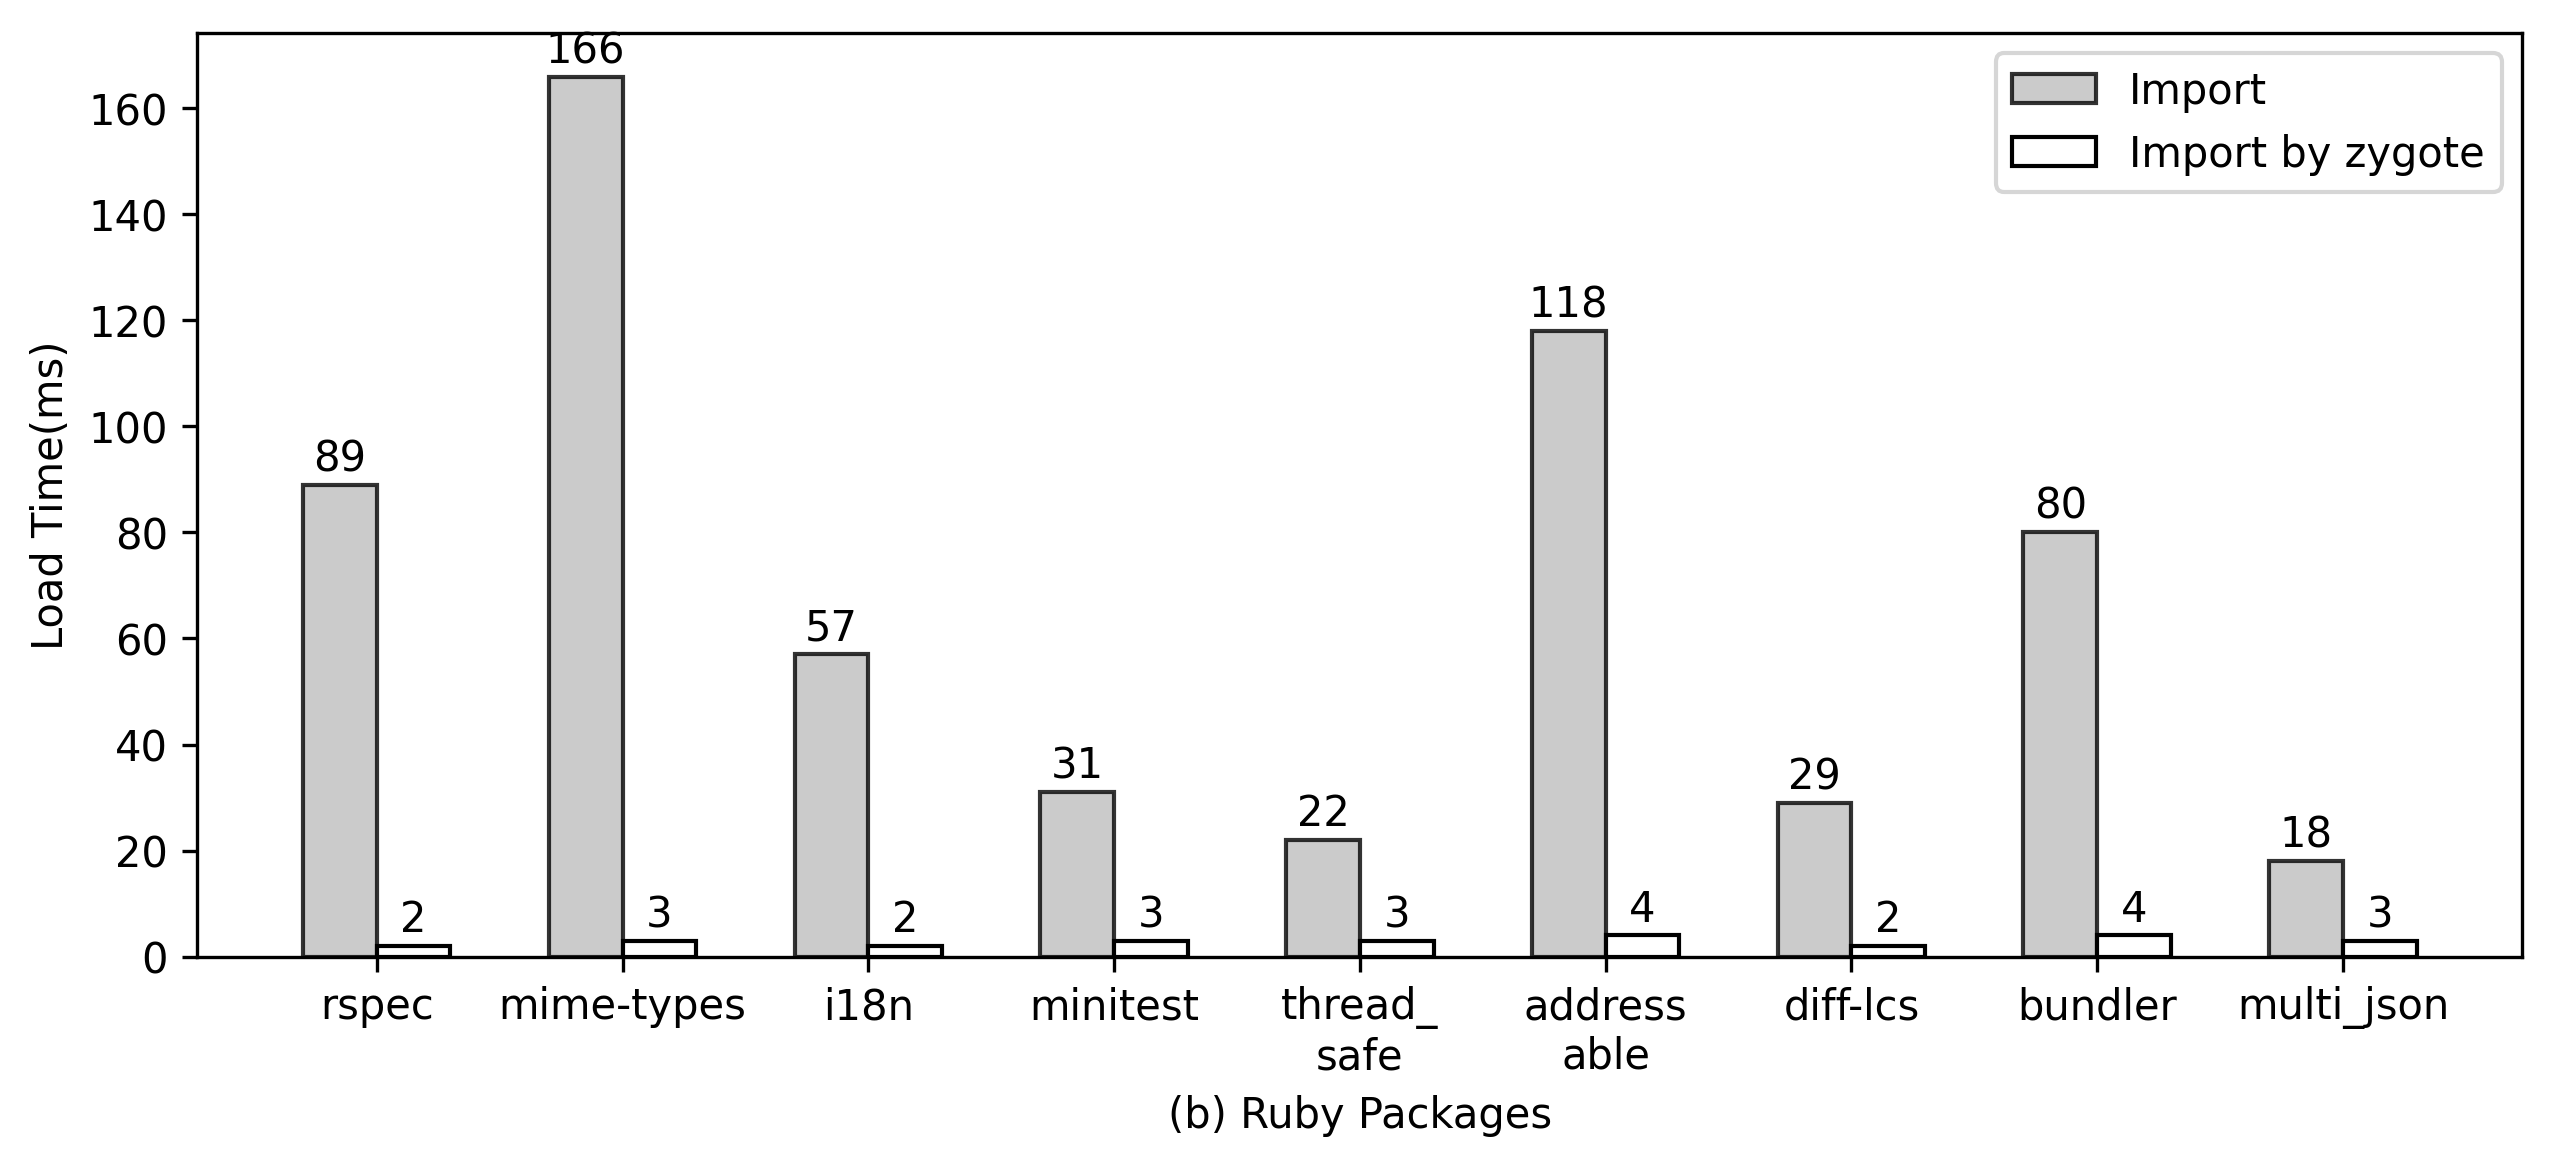
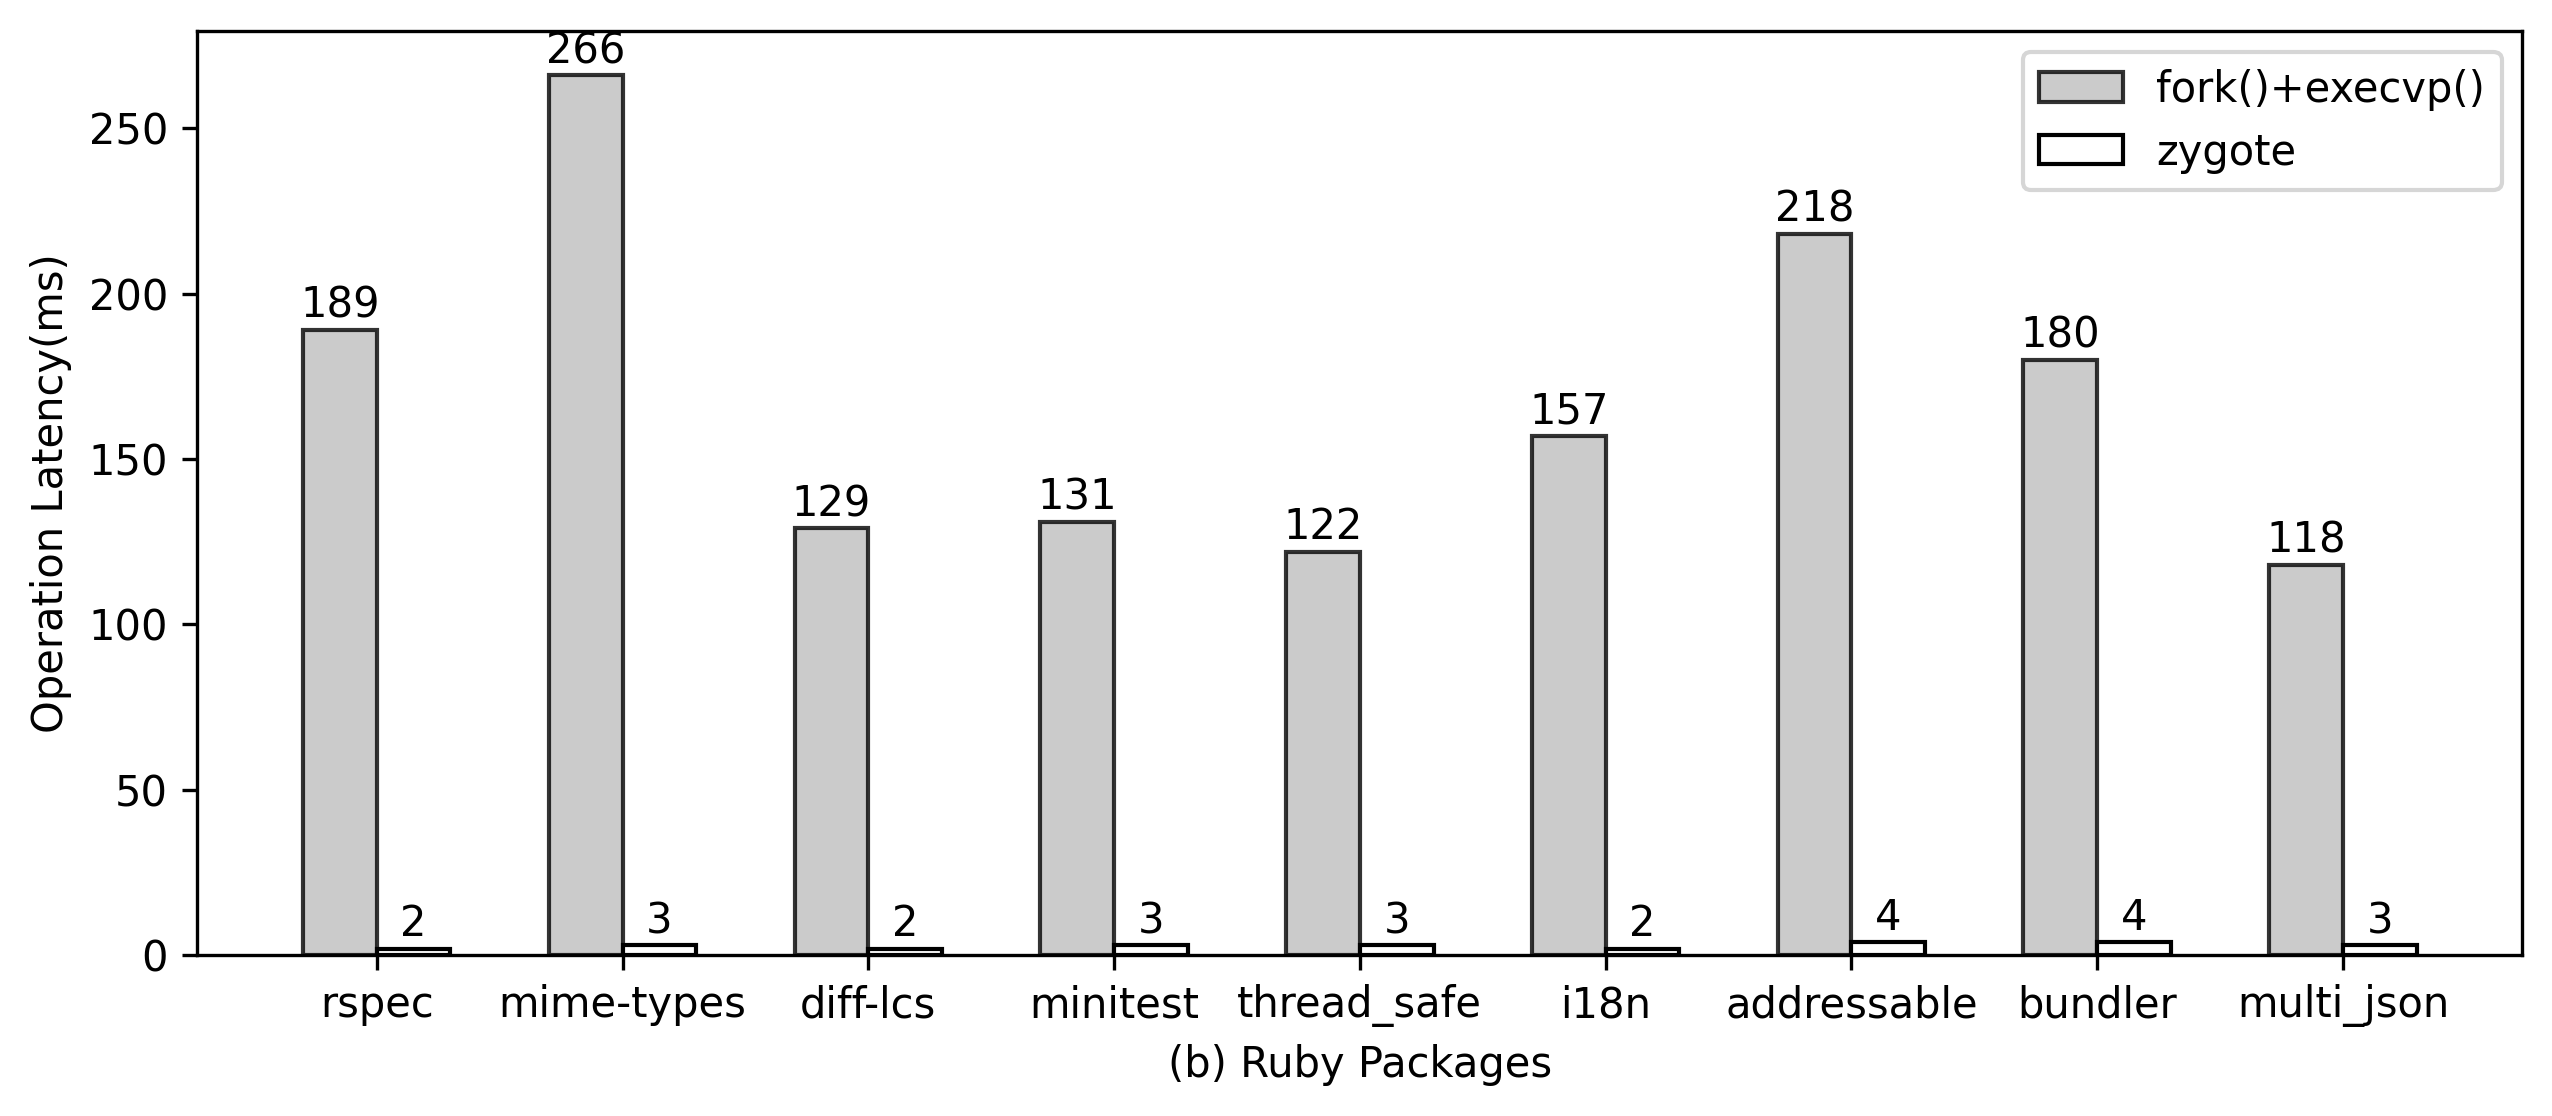
ok

diff --git a/code/capture-6/fre-engine/package_load/3.py b/code/capture-6/fre-engine/package_load/3.py
@@ -1,0 +1,64 @@
+import importlib
+import time
+
+''' 测试包加载的时间
+执行流程
+
+1. 使用 docker python:3.7 环境
+docker run -it -v $PWD:/root python:3.7 bash
+
+2. 安装依赖包
+pip3 install -i http://pypi.douban.com/simple --trusted-host pypi.douban.com \
+    django flask numpy pandas matplotlib setuptools requests sqlalchemy seaborn scipy
+
+3. 执行测试脚本
+python /root/package_load_time.py
+'''
+#
+# t1 = int(round(time.time() * 1e9 / 1e6))
+# importlib.import_module("numpy")
+# t2 = int(round(time.time() * 1e9 / 1e6))
+# print("numpy" + ": ", t2 - t1, "ms")
+
+# 先导入scipy
+t1 = int(round(time.time() * 1e9 / 1e6))
+importlib.import_module("scipy")
+t2 = int(round(time.time() * 1e9 / 1e6))
+print("scipy" + ": ", t2 - t1, "ms")
+
+# 再导入numpy
+t1 = int(round(time.time() * 1e9 / 1e6))
+importlib.import_module("numpy")
+t2 = int(round(time.time() * 1e9 / 1e6))
+print("numpy" + ": ", t2 - t1, "ms")
+
+# # scipy -> numpy
+#
+# pid = os.fork()
+# if pid == 0:
+#     # 直接导入 numpy
+#     t1 = int(round(time.time() * 1e9 / 1e6))
+#     importlib.import_module("numpy")
+#     t2 = int(round(time.time() * 1e9 / 1e6))
+#     print("numpy" + ": ", t2 - t1, "ms")
+#     sys.exit(0)
+# else:
+#     os.waitpid(pid, 0)
+#
+# pid = os.fork()
+# if pid == 0:
+#     # 先导入scipy
+#     t1 = int(round(time.time() * 1e9 / 1e6))
+#     importlib.import_module("scipy")
+#     t2 = int(round(time.time() * 1e9 / 1e6))
+#     print("scipy" + ": ", t2 - t1, "ms")
+#
+#     # 再导入numpy
+#     t1 = int(round(time.time() * 1e9 / 1e6))
+#     importlib.import_module("numpy")
+#     t2 = int(round(time.time() * 1e9 / 1e6))
+#     print("numpy" + ": ", t2 - t1, "ms")
+#
+#     sys.exit(0)
+# else:
+#     os.waitpid(pid, 0)

diff --git a/code/capture-6/fre-engine/package_load/2.py b/code/capture-6/fre-engine/package_load/2.py
@@ -1,0 +1,67 @@
+import importlib
+import os
+import sys
+import time
+
+''' 测试包加载的时间
+执行流程
+
+1. 使用 docker python:3.7 环境
+docker run -it -v $PWD:/root python:3.7 bash
+
+2. 安装依赖包
+pip3 install -i http://pypi.douban.com/simple --trusted-host pypi.douban.com \
+    django flask numpy pandas matplotlib setuptools requests sqlalchemy seaborn scipy
+
+3. 执行测试脚本
+python /root/package_load_time.py
+'''
+
+packages = ["django", "flask", "numpy", "pandas", "matplotlib", "setuptools", "requests", "sqlalchemy",
+            "scipy", "seaborn"]
+
+for i in range(0, len(packages)):
+    pid = os.fork()
+    if pid == 0:
+        t1 = int(round(time.time() * 1e9 / 1e6))
+        importlib.import_module(packages[i])
+        t2 = int(round(time.time() * 1e9 / 1e6))
+        print(packages[i] + ": ", t2 - t1, "ms")
+        sys.exit(0)
+    else:
+        os.waitpid(pid, 0)
+
+'''
+django:  24 ms
+flask:  189 ms
+numpy:  156 ms
+pandas:  427 ms
+matplotlib:  222 ms
+setuptools:  223 ms
+requests:  143 ms
+sqlalchemy:  142 ms
+scipy:  186 ms
+seaborn:  1086 ms
+
+django:  26 ms
+flask:  198 ms
+numpy:  168 ms
+pandas:  521 ms
+matplotlib:  302 ms
+setuptools:  213 ms
+requests:  162 ms
+sqlalchemy:  163 ms
+scipy:  205 ms
+seaborn:  1211 ms
+
+django:  27 ms
+flask:  192 ms
+numpy:  157 ms
+pandas:  464 ms
+matplotlib:  226 ms
+setuptools:  209 ms
+requests:  142 ms
+sqlalchemy:  150 ms
+scipy:  181 ms
+seaborn:  1122 ms
+'''

diff --git a/result/4.1/load_ruby.py b/result/4.1/load_ruby.py
@@ -26,18 +26,20 @@ multi_json : 3
 
 plt.figure(figsize=(10, 4))
 
-label_list = ['rspec', 'mime-types', 'i18n', 'minitest',
-              'thread_\nsafe', 'address\nable', 'diff-lcs', 'bundler', 'multi_json']  # 横坐标刻度显示值
-list_docker = [89, 166, 57, 31, 22, 118, 29, 80, 18]  # 纵坐标值1
-list_fre = [2, 3, 2, 3, 3, 4, 2, 4, 3]  # 纵坐标值2
+label_list = ['rspec', 'mime-types', 'diff-lcs', 'minitest', 'thread_safe',
+              'i18n', 'addressable', 'bundler', 'multi_json']  # 横坐标刻度显示值
+list_docker = [189, 266, 129, 131, 122,
+               157, 218, 180, 118]  # 纵坐标值1
+list_fre = [2, 3, 2, 3, 3,
+            2, 4, 4, 3]  # 纵坐标值2
 x_label = "(b) Ruby Packages"
-y_label = "Load Time(ms)"
+y_label = "Operation Latency(ms)"
 output = "output/ruby.png"
 fz = 10
 x = range(len(list_docker))
 
-rects1 = plt.bar(x=x, height=list_docker, width=0.3, alpha=0.8, color='#BEBEBE', edgecolor='k', label="Import")
-rects2 = plt.bar(x=[i + 0.3 for i in x], height=list_fre, width=0.3, color='w', edgecolor='k', label="Import by zygote")
+rects1 = plt.bar(x=x, height=list_docker, width=0.3, alpha=0.8, color='#BEBEBE', edgecolor='k', label="fork()+execvp()")
+rects2 = plt.bar(x=[i + 0.3 for i in x], height=list_fre, width=0.3, color='w', edgecolor='k', label="zygote")
 
 # 编辑文本
 for rect in rects1:

diff --git a/result/lh/3.2.py b/result/lh/3.2.py
@@ -1,0 +1,31 @@
+import matplotlib.pyplot as plt
+
+fz = 10
+
+x1 = [0.000, 0.004, 0.0045, 0.005, 0.0055, 0.006, 0.0068, 0.0085,
+      0.009, 0.011, 0.0135, 0.0148, 0.0155, 0.016, 0.0185, 0.020]
+y1 = [0.12, 0.24, 0.42, 0.46, 0.456, 0.454, 0.454, 0.454,
+      0.48, 0.56, 0.58, 0.65, 0.65, 0.66, 0.71, 0.71]
+
+x2 = [0.002, 0.0055, 0.0065, 0.007, 0.0078, 0.008, 0.011, 0.012,
+      0.014, 0.015, 0.0155, 0.0165, 0.017, 0.0175, 0.019, 0.0195]
+y2 = [0.14, 0.33, 0.59, 0.59, 0.59, 0.64, 0.68, 0.68,
+      0.81, 0.81, 0.81, 0.81, 0.81, 0.81, 0.81, 0.81]
+# x2 = [0.001, 0.002, 0.003, 0.004, 0.005, 0.0058, 0.0065, 0.0088, 0.010, 0.0125, 0.014, 0.0155, 0.017, 0.020]
+# y2 = [0.09, 0.16, 0.198, 0.27, 0.32, 0.33, 0.4, 0.41, 0.43, 0.45, 0.56, 0.58, 0.64, 0.64]
+
+plt.figure(figsize=(5.5, 3))
+
+plt.plot(x1, y1, '-', color='k', linewidth=0.9, marker='o', markersize=4)
+plt.plot(x2, y2, '-.', color='k', linewidth=0.9, marker='*', markersize=4)
+
+plt.xlabel('False Positive Rate', fontsize=fz)
+plt.ylabel('True Positive Rate', fontsize=fz)
+# plt.legend(loc='best', fontsize=fz)
+plt.tick_params(labelsize=fz)
+
+plt.xticks([0.000, 0.004, 0.008, 0.012, 0.016, 0.020])
+plt.yticks([0, 0.1, 0.2, 0.3, 0.4, 0.5, 0.6, 0.7, 0.8])
+
+plt.savefig("output/3.2.png", dpi=300, bbox_inches='tight')
+plt.close()

diff --git a/result/4.1/load_python.py b/result/4.1/load_python.py
@@ -28,16 +28,16 @@ plt.figure(figsize=(10, 4))
 
 label_list = ['django', 'flask', 'numpy', 'pandas', 'matplotlib', 'scipy', 'setuptools', 'requests',
               'sqlalchemy']  # 横坐标刻度显示值
-list_docker = [19, 209, 120, 279, 56, 24, 124, 75, 102]  # 纵坐标值1
+list_docker = [49, 239, 150, 309, 86, 54, 154, 105, 132]  # 纵坐标值1
 list_fre = [3, 4, 4, 4, 5, 4, 4, 4, 5]  # 纵坐标值2
 x_label = "(a) Python Packages"
-y_label = "Load Time(ms)"
+y_label = "Operation Latency(ms)"
 output = "output/python.png"
 fz = 10
 x = range(len(list_docker))
 
-rects1 = plt.bar(x=x, height=list_docker, width=0.3, alpha=0.8, color='#BEBEBE', edgecolor='k', label="Import")
-rects2 = plt.bar(x=[i + 0.3 for i in x], height=list_fre, width=0.3, color='w', edgecolor='k', label="Import by zygote")
+rects1 = plt.bar(x=x, height=list_docker, width=0.3, alpha=0.8, color='#BEBEBE', edgecolor='k', label="fork()+execvp()")
+rects2 = plt.bar(x=[i + 0.3 for i in x], height=list_fre, width=0.3, color='w', edgecolor='k', label="zygote")
 
 # 编辑文本
 for rect in rects1:

diff --git a/result/lh/3.1.py b/result/lh/3.1.py
@@ -1,0 +1,25 @@
+import matplotlib.pyplot as plt
+
+fz = 10
+
+x1 = [0.0005, 0.001, 0.0018, 0.002, 0.0027, 0.0031, 0.004, 0.0053, 0.0086, 0.015, 0.017]
+y1 = [0.06, 0.25, 0.28, 0.32, 0.46, 0.47, 0.52, 0.57, 0.59, 0.68, 0.73]
+
+x2 = [0.001, 0.002, 0.003, 0.004, 0.005, 0.0058, 0.0065, 0.0088, 0.010, 0.0125, 0.014, 0.0155, 0.017, 0.020]
+y2 = [0.09, 0.16, 0.198, 0.27, 0.32, 0.33, 0.4, 0.41, 0.43, 0.45, 0.56, 0.58, 0.64, 0.64]
+
+plt.figure(figsize=(5.5, 4))
+
+plt.plot(x1, y1, '-', color='k', linewidth=0.9, marker='o', markersize=4)
+plt.plot(x2, y2, '-.', color='k', linewidth=0.9, marker='*', markersize=4)
+
+plt.xlabel('False Positive Rate', fontsize=fz)
+plt.ylabel('True Positive Rate', fontsize=fz)
+# plt.legend(loc='best', fontsize=fz)
+plt.tick_params(labelsize=fz)
+
+plt.xticks([0.000, 0.004, 0.008, 0.012, 0.016, 0.020])
+plt.yticks([0, 0.1, 0.2, 0.3, 0.4, 0.5, 0.6, 0.7, 0.8])
+
+plt.savefig("output/3.png", dpi=300, bbox_inches='tight')
+plt.close()

diff --git a/result/6.3-mem/mem_1.py b/result/6.3-mem/mem_1.py
@@ -1,13 +1,15 @@
 import matplotlib.pyplot as plt
 
-label_list = ['Nodejs8', 'Python2.7', 'Python3', 'Java8', 'PHP5.6']  # 横坐标刻度显示值
-list_docker = [161, 124, 132, 307, 127]  # 纵坐标值1
-list_fre = [155, 109, 117, 282, 120]  # 纵坐标值2
+label_list = ['Nodejs12', 'Python3.7', 'Ruby3', 'Java8', 'PHP8']  # 横坐标刻度显示值
+list_docker = [161, 124, 152, 307, 127]  # 纵坐标值1
+list_fre = [158, 119, 147, 301, 125]  # 纵坐标值2
 x_label = "WebApp"
 y_label = "Memory usage(MB)"
 output = "output/mem_1.png"
 fz = 10
 x = range(len(list_docker))
+
+plt.figure(figsize=(6, 4))
 
 rects1 = plt.bar(x=x, height=list_docker, width=0.3, alpha=0.8, color='#BEBEBE', edgecolor='k', label="Docker")
 rects2 = plt.bar(x=[i + 0.3 for i in x], height=list_fre, width=0.3, color='w', edgecolor='k', label="FRE")

diff --git a/result/6.3-mem/mem_2.py b/result/6.3-mem/mem_2.py
@@ -2,13 +2,13 @@ import matplotlib.pyplot as plt
 
 fz = 10
 
-image_list = ["t1", "t2", "t3", "t4", "t5"]
+image_list = ["t1", "t2", "t3", "t4", "t5", "t6", "t7", "t8", "t9", "t10"]
 
-host_list = [145, 210, 341, 599, 677]
-fre_list = [145, 217, 348, 608, 685]
-docker_list = [145, 233, 381, 680, 803]
+host_list = [145, 178, 210, 280, 321, 406, 539, 625, 677, 720]
+fre_list = [145, 184, 215, 289, 328, 416, 544, 630, 685, 725]
+docker_list = [145, 195, 233, 334, 401, 541, 659, 805, 893, 1030]
 
-plt.figure(figsize=(5.5, 4))
+plt.figure(figsize=(6, 4))
 
 plt.plot(image_list, host_list, ':', color='k', label="Host", linewidth=0.9)
 plt.plot(image_list, fre_list, '-', color='k', label="FRE", linewidth=0.9)

diff --git a/result/lh/2.py b/result/lh/2.py
@@ -1,0 +1,20 @@
+import matplotlib.pyplot as plt
+
+x_label = "Components"
+y_label = "Percentage"
+output = "output/2.png"
+fz = 8
+
+data_list = [0.88, 0.09, 0.03, 0.02, 0.01, 0.009]
+rects1 = plt.bar(x=[i for i in range(1, len(data_list) + 1)], height=data_list, width=0.7, alpha=0.8, color='#BEBEBE',
+                 edgecolor='k')
+
+plt.xlabel(x_label, fontsize=fz)
+plt.ylabel(y_label, fontsize=fz)
+plt.yticks([0, 0.1, 0.2, 0.3, 0.4, 0.5, 0.6, 0.7, 0.8, 0.9])
+# plt.xticks([index + 0.15 for index in x], label_list)
+# plt.legend(fontsize=fz)  # 设置题注
+plt.tick_params(labelsize=fz)
+
+plt.savefig(output, dpi=300, bbox_inches='tight')
+plt.close()

diff --git a/result/lh/1.py b/result/lh/1.py
@@ -1,0 +1,18 @@
+import matplotlib.pyplot as plt
+
+x_label = "Features"
+y_label = "Normalized Relevance"
+output = "output/1.png"
+fz = 8
+
+data_list = [0.7, 0.49, 0.41, 0.2, 0.69, 0.8, 0.92, 0.98, 0.53, 0.6, 0.95, 0.99, 0.88, 0.79, 0.29, 0.24]
+rects1 = plt.bar(x=[i for i in range(1, 17)], height=data_list, width=0.7, alpha=0.8, color='#BEBEBE', edgecolor='k')
+
+plt.xlabel(x_label, fontsize=fz)
+plt.ylabel(y_label, fontsize=fz)
+# plt.xticks([index + 0.15 for index in x], label_list)
+# plt.legend(fontsize=fz)  # 设置题注
+plt.tick_params(labelsize=fz)
+
+plt.savefig(output, dpi=300, bbox_inches='tight')
+plt.close()

diff --git a/result/6.2-zygote/6.2.1/parallel/draw.py b/result/6.2-zygote/6.2.1/parallel/draw.py
@@ -25,7 +25,7 @@ def draw():
     for i in range(1, len(matrix)):
         for j in range(0, len(matrix[i])):
             matrix[i][j] = matrix[i][j] / 1000
-            matrix[i][j] = math.sqrt(matrix[i][j])
+            # matrix[i][j] = math.sqrt(matrix[i][j])
             # matrix[i][j] = np.log2(matrix[i][j])
 
     plt.plot(matrix[0], matrix[2], '-.', color='k', label="FRE", linewidth=0.9)

diff --git a/code/capture-6/fre-engine/package_load/package_size.py b/code/capture-6/fre-engine/package_load/package_size.py
@@ -1,0 +1,22 @@
+import time
+# import numpy
+# import django
+# import flask
+# import numpy
+# import pandas
+# import matplotlib
+# import setuptools
+# import requests
+# import sqlalchemy
+import tensorflow
+
+time.sleep(1e6)
+
+'''
+scipy -> numpy
+
+磁盘
+scipy -> 25.9MB
+numpy -> 14.5MB
+
+'''
